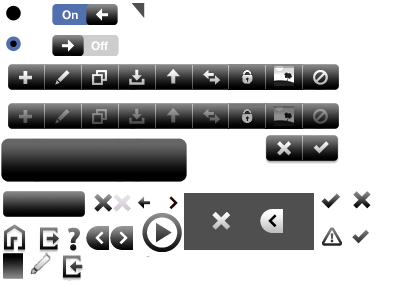
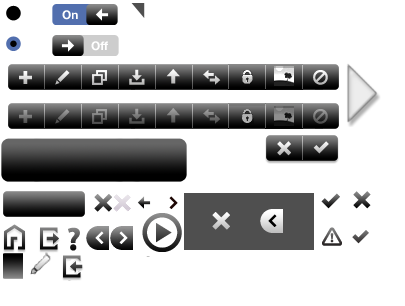
Added slide-in menu

Changed region(s): [[0.8593, 0.2059, 0.9481, 0.4118]]

diff --git a/bubba-frontend/admin/views/default/_css/admin.css b/bubba-frontend/admin/views/default/_css/admin.css
@@ -308,6 +308,13 @@ div.progress-notice {
   margin: 1em 0 0;
 }
 
+#menu-trigger {
+	position : absolute;
+	left : 0px;
+	top : 225px;
+	z-index : 2000;
+}
+
 #topnav {
   position: relative;
   float: right;
@@ -334,7 +341,7 @@ div.progress-notice {
   margin-top: 10px;
 }
 
-#topnav button {
+#topnav button,#fn-menu-trigger {
   background: transparent;
   border: 0;
   color: #000;
@@ -343,7 +350,12 @@ div.progress-notice {
   margin: 0 4px;
   min-width: 0;
 }
-
+#fn-menu-trigger {
+	margin : 0px;
+	padding : 0px;
+	height : 67px;
+	width : 30px;
+}
 #subnav {
   font-size: 14px;
   list-style: none;
@@ -456,7 +468,8 @@ div.progress-notice {
   max-width: 674px;
   opacity: .85!important;
   text-align: center;
-  width: 674px!important;
+ 	width: 674px;
+	overflow : hidden;
 }
 
 .ui-dialog-menu .ui-widget-content {
@@ -616,6 +629,12 @@ div.progress-notice {
   background-position: -320px -193px;
   height: 29px;
   width: 22px;
+}
+
+.ui-icon-menu-trigger {
+  background-position: -350px -60px;
+  height: 100px;
+  width: 50px;
 }
 
 .ui-icon-open {

diff --git a/bubba-frontend/admin/views/default/_js/main.js b/bubba-frontend/admin/views/default/_js/main.js
@@ -92,6 +92,28 @@ function cursor_ready() {
 	$.throbber.hide();
 }		
 
+function display_menu() {
+	if(! menu_dialog.dialog('isOpen') ) {
+		marginleft = ($("html").outerWidth()-$(".ui-dialog-menu").outerWidth())/2;
+		$(".ui-dialog-menu").width(0);
+		menu_dialog.dialog('open').show();
+	  $(".ui-dialog-menu").animate({
+	    left: marginleft,
+	    width : 674
+	  },200);
+	} else {
+	  $(".ui-dialog-menu").animate({
+	    left: 0,
+	    width : 0
+	  },200,
+	  	function() {
+				menu_dialog.dialog('close');
+	    	$(".ui-dialog-menu").width(674);
+			}
+		);
+	}
+}
+
 function logout_dialog() {
 	
 	var buttons = [

diff --git a/bubba-frontend/admin/views/default/main_view.php b/bubba-frontend/admin/views/default/main_view.php
@@ -90,7 +90,7 @@ $(document).ready(function(){
 		$("#menu").show(),
 			"",
 			{},
-			{ autoOpen: false, dialogClass: 'ui-dialog-menu', width : 650 }
+			{ autoOpen: false, dialogClass: 'ui-dialog-menu', width : '0' , position : [0,200]}
 		);
 	$('a', menu_dialog).click(function(){menu_dialog.dialog('close')});
 	$('#fn-topnav-logout').click(function(event) {
@@ -100,9 +100,22 @@ $(document).ready(function(){
 			dialog_login();
 		<? endif ?>
   	});
-    $('#fn-topnav-home').click(function(event) {
-		menu_dialog.dialog('open').show();
-	});
+    $('#fn-topnav-home').click(function() {
+    	window.location.href = '<?=FORMPREFIX?>';
+    });
+  
+    $('#fn-menu-trigger').click(function() {
+    	display_menu();
+		});
+  
+	  $('html').keydown(function(e) {
+	  	//alert("NODE: " + e.target.nodeName + "CLASS: " + e.target.hasClass('ui-dialog-menu'));
+		  if(e.keyCode == 77 && (e.target.nodeName == "HTML" || $(e.target).hasClass('ui-dialog-menu'))) {
+		  	display_menu();
+		  }
+		});
+
+
   	$(".ui-login-menubar-a").mouseover(function(e) {	
 		$(this).find("span").show();
 	});	
@@ -236,6 +249,11 @@ if(isset($head)) {
         </div>	<!-- content_wrapper -->
         <?include("sideboard_view.php")?>
     </div> <!-- wrapper -->
+    <?if( $this->uri->total_segments() && ($this->uri->segment(1) != "login") ) :?>
+	    <div id="menu-trigger">
+	    	<button id="fn-menu-trigger" class="ui-button" role="button" aria-disabled="false"><div class="ui-icons ui-icon-menu-trigger"></div><div id="s-topnav-home" class="ui-button-text" style="display:none"><?=t("Menu")?></div></button>
+	    </div>
+	  <?endif?>
 		<?=$dialog_menu?>
 
   <?if(isset($wizard) && $wizard):?>

diff --git a/bubba-frontend/admin/views/default/users/user_list_view.php b/bubba-frontend/admin/views/default/users/user_list_view.php
@@ -22,13 +22,24 @@
 </tfoot>
 </table>
 
+<?else :?>
+<table id="fn-users-list">
+<thead>
+<tr>
+	<th colspan="4" class="ui-state-default ui-widget-header"><?=t('user-users-title')?></th>
+</tr>
+</table>
+
 <?endif?>
+
 
 <div id="fn-users-dialogs" class="ui-helper-hidden">
 <div id="fn-users-list-edit">
 <form>
 <input type="hidden" name="username"/>
+<?if($show_allusers):?>
 <h2 class="fn-dialog-header ui-dialog-header"></h2>
+<?endif?>
 	<table>
 	<tr>
 	   <td><label for="username"><?=t('users-list-edit-username-label')?></label></td>

diff --git a/bubba-frontend/admin/views/default/i18n/default/bubba_lang.php b/bubba-frontend/admin/views/default/i18n/default/bubba_lang.php
@@ -298,6 +298,7 @@ $lang['users-list-edit-password2-label'] = 'Confirm password';
 $lang['users-list-edit-sideboard-label'] = 'Display sideboard for non-logged in users';
 
 $lang['users-title'] = 'Users';
+$lang['user-users-title'] = 'User information';
 $lang['users-label-username'] = 'User name';
 $lang['users-label-realname'] = 'Real name';
 $lang['users-label-shell-login'] = 'Allow shell login';
